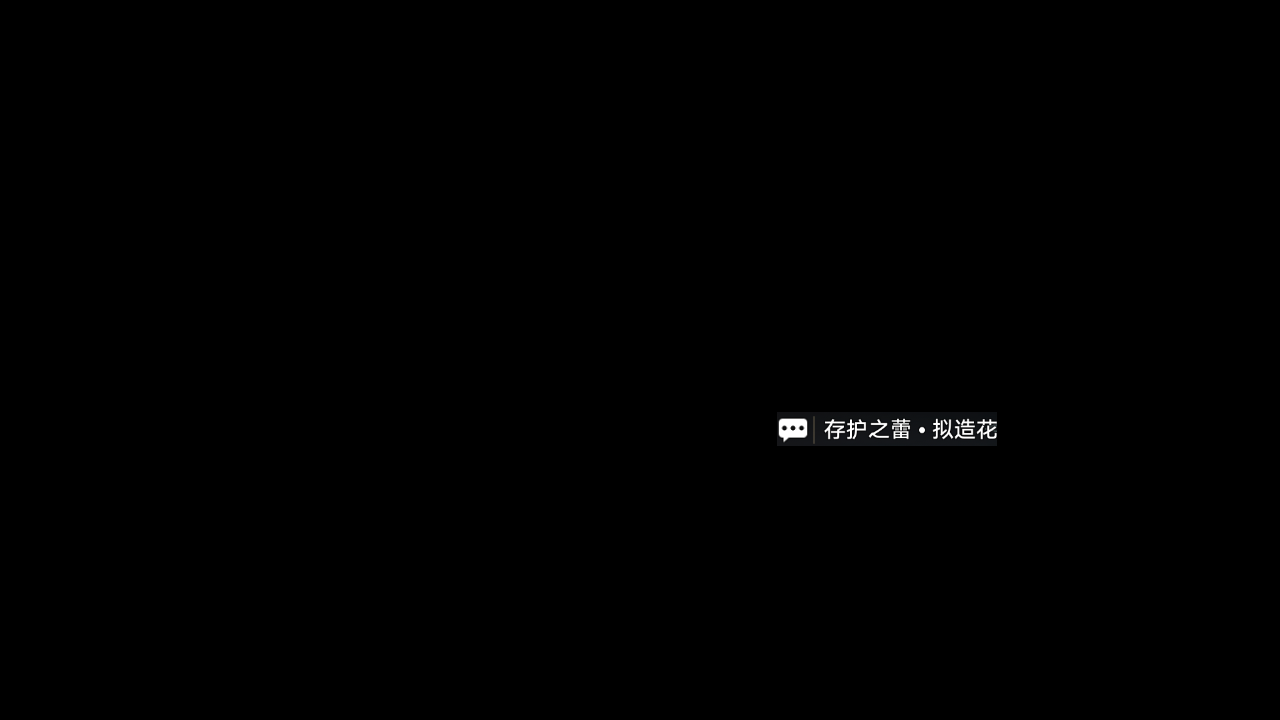
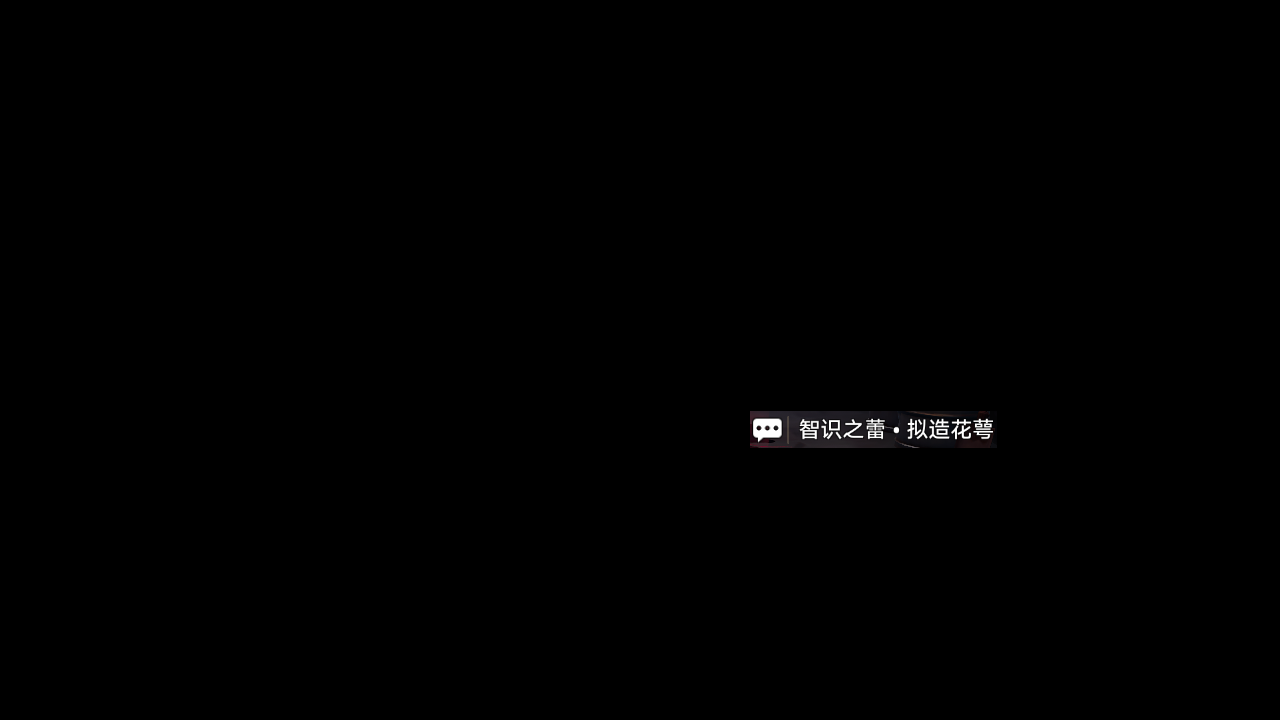
Upd: DUNGEON_COMBAT_INTERACT

Changed region(s): [[0.5625, 0.55, 0.7812, 0.6417]]

diff --git a/tasks/combat/assets/assets_combat_interact.py b/tasks/combat/assets/assets_combat_interact.py
@@ -7,9 +7,9 @@ DUNGEON_COMBAT_INTERACT = ButtonWrapper(
     name='DUNGEON_COMBAT_INTERACT',
     share=Button(
         file='./assets/share/combat/interact/DUNGEON_COMBAT_INTERACT.png',
-        area=(779, 419, 807, 442),
-        search=(759, 399, 827, 462),
-        color=(190, 191, 191),
-        button=(777, 412, 997, 446),
+        area=(753, 419, 781, 441),
+        search=(733, 399, 801, 461),
+        color=(199, 197, 198),
+        button=(750, 411, 997, 448),
     ),
 )
